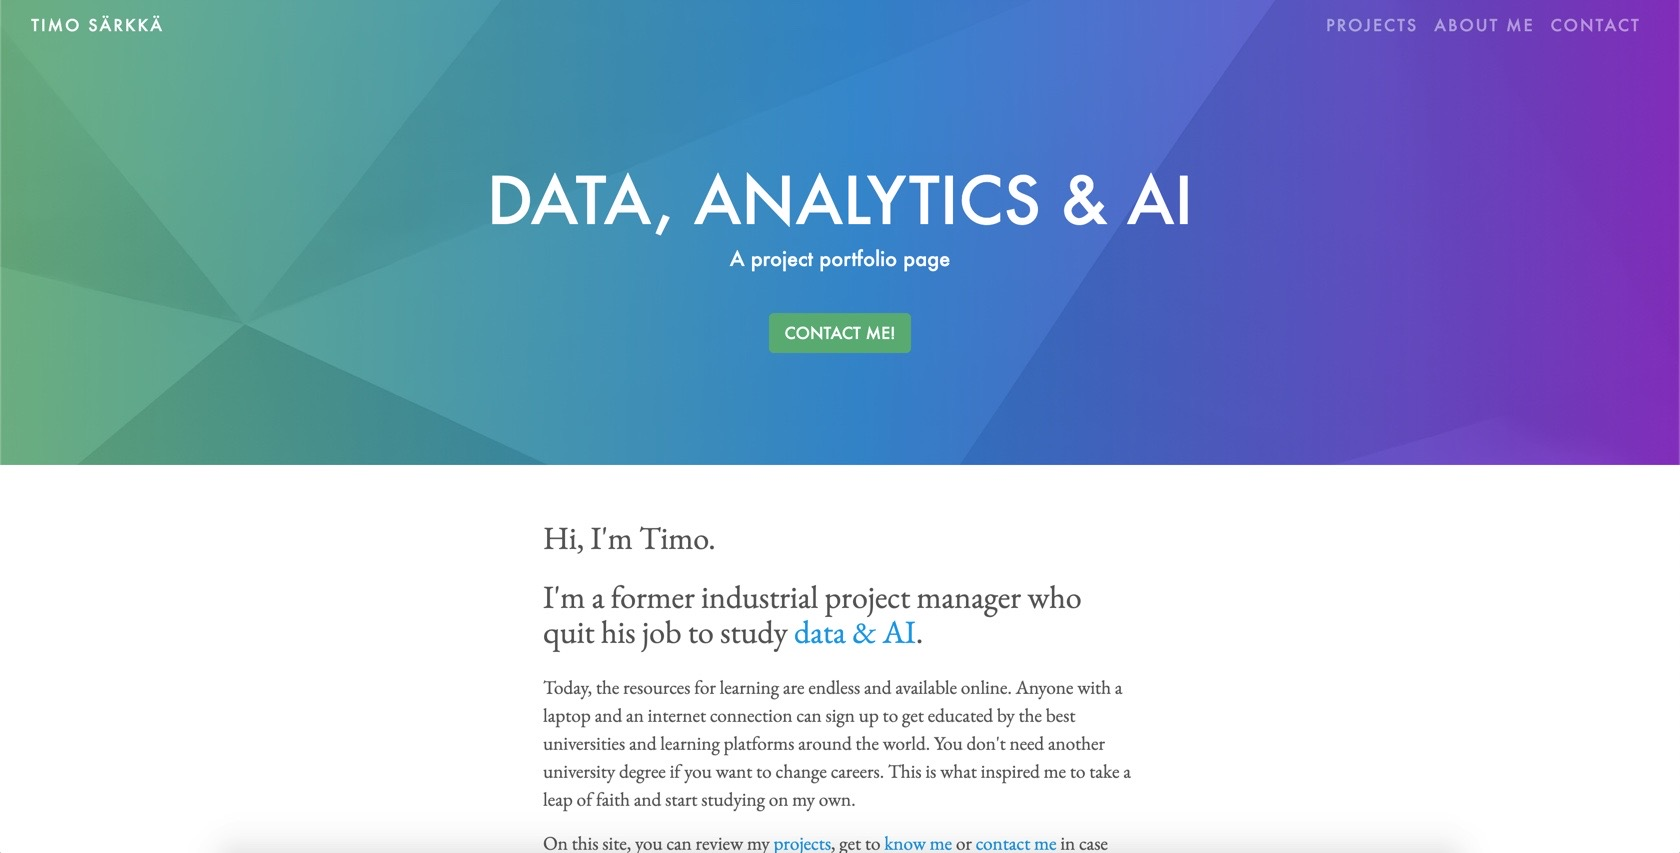
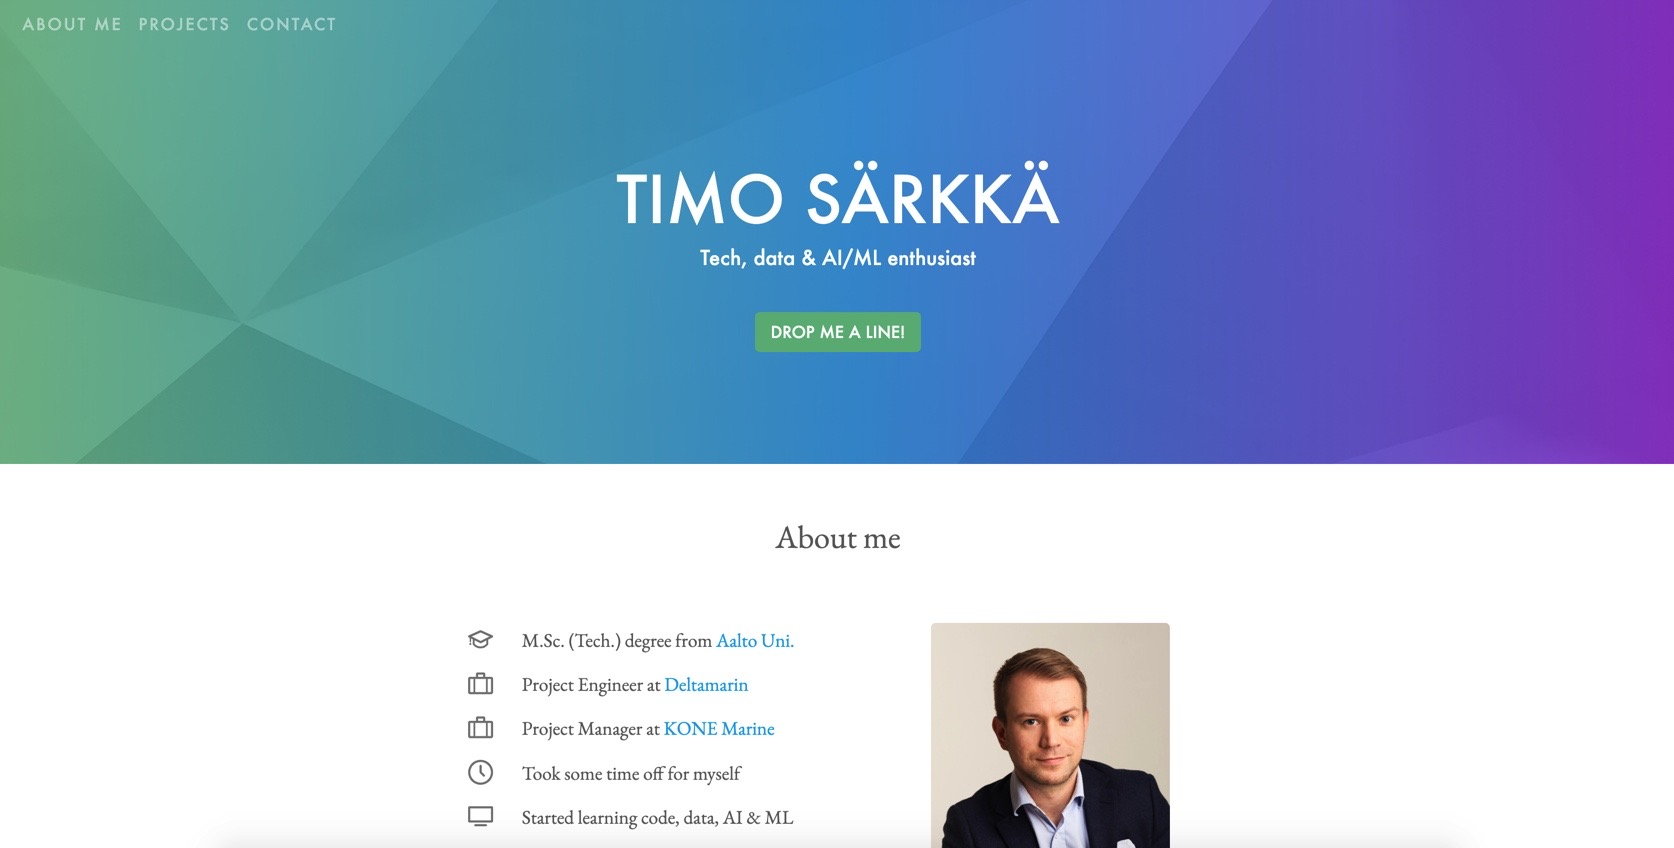
Simplified the page, added iconography

diff --git a/index.html b/index.html
@@ -1,7 +1,7 @@
 <!DOCTYPE html>
 <html lang="en">
   <head>
-    <title>Timo Särkkä - Data, Analytics & AI</title>
+    <title>Timo Särkkä - Tech, data & AI/ML</title>
     <!-- Required meta tags -->
     <meta charset="utf-8">
     <meta name="viewport" content="width=device-width, initial-scale=1, shrink-to-fit=no">
@@ -14,15 +14,14 @@
 
     <!-- navbar -->
     <nav class="navbar navbar-expand-lg navbar-dark">
-      <div class="container-fluid d-flex">
-        <a class="navbar-brand mr-0" href="index.html">Timo Särkkä</a>
+      <div class="container-fluid d-flex px-0">
         <button class="navbar-toggler" type="button" data-toggle="collapse" data-target="#navbarNavAltMarkup" aria-controls="navbarNavAltMarkup" aria-expanded="false" aria-label="Toggle navigation">
           <span class="navbar-toggler-icon"></span>
         </button>
-        <div class="collapse navbar-collapse justify-content-end" id="navbarNavAltMarkup">
+        <div class="collapse navbar-collapse justify-content-start" id="navbarNavAltMarkup">
           <div class="navbar-nav">
-            <a class="nav-item nav-link" href="#projects">Projects</a>
             <a class="nav-item nav-link" href="#about">About me</a>
+            <a class="nav-item nav-link" href="#projects">Projects</a>
             <a class="nav-item nav-link" href="#contact">Contact</a>
           </div>
         </div>
@@ -33,33 +32,47 @@
     <!-- jumbotron -->
     <div class="jumbotron jumbotron-fluid jumbo-bg-img bg-info text-white">
       <div class="container text-center py-5">
-        <h1 class="display-2 jumbo-heading">Data, analytics & AI</h1>
-        <p class="lead">A project portfolio page</p>
+        <h1 class="display-2 jumbo-heading">Timo Särkkä</h1>
+        <p class="lead">Tech, data & AI/ML enthusiast</p>
         <div class="btn-group mt-4" role="group" aria-label="Callout buttons">
-          <a href="#contact" class="btn btn-custom btn-lg" role="button">Contact me!</a>
+          <a href="#contact" class="btn btn-custom btn-lg" role="button">Drop me a line!</a>
         </div>
       </div>
     </div>
     <!-- /jumbotron -->
 
     <div class="container pt-4">
-      <!-- intro -->
-      <div id="intro" class="row">
-        <div class="col-lg order-lg-2 text-left intro-padding">
-          <h3 class="mb-4">Hi, I'm Timo.</h3>
-          <h3 class="mb-4">I'm a former industrial project manager who quit his job to study <a href="index.html#projects">data & AI</a>.</h3>
-          <p class="body-text">
-            Today, the resources for learning are endless and available online. Anyone with a laptop and an internet connection can sign up to get educated by the best universities and learning platforms around the world. You don't need another university degree if you want to change careers. This is what inspired me to take a leap of faith and start studying on my own.
-          </p>
-          <p class="body-text b-border pb-5">
-            On this site, you can review my <a href="index.html#projects">projects</a>, get to <a href="index.html#about">know me</a> or <a href="index.html#contact">contact me</a> in case you want to work together.
-          </p>
-        </div>
+      <!-- about -->
+      <h3 class="text-center mb-5">About me</h3>
+      <a class="anchor" id="about"></a>
+      <div class="row">
+       <div class="col-md">
+         <ul class="about custom-bullet mt-3">
+           <li class="body-text">M.Sc. (Tech.) degree from <a href="https://www.aalto.fi/en" target="_blank">Aalto Uni.</a></li>
+           <li class="body-text">Project Engineer at <a href="https://www.deltamarin.com/" target="_blank">Deltamarin</a></li>
+           <li class="body-text">Project Manager at <a href="https://www.kone-marine.com/" target="_blank">KONE Marine</a></li>
+           <li class="body-text">Took some time off for myself</li>
+           <li class="body-text">Started learning code, data, AI & ML</li>
+         </ul>
+       </div>
+       <div class="col-md">
+         <img src="img/timo-profile.jpg" class="profile-pic" alt="My profile picture">
+       </div>
       </div>
-      <!-- /intro -->
+      <div class="row mb-5">
+       <div class="col">
+        <p class="body-text">Hi, I'm Timo.</p>
+         <p class="body-text">I have managed industrial projects of different sizes for the better part of the last 7 years. My roots are in the maritime industry. I have worked in design offices, on factory floors and at shipyards.</p>
+          <p class="body-text">Lately, I've taken a turn to learn about IT and data. I'm especially interested in IT project management, data analytics and AI/ML. Hopefully I can learn and leverage these topics in my future roles.</p>
+          <p class="body-text">Some principles I try to live by: hard (but smart) work pays off; simplify until you can't; listen to your gut; delayed over instant gratification; and underpromise - overdeliver.</p>
+          <p class="body-text">When not on the job, I enjoy various kinds of sports (functional training, weightlifting, running), spend time with my dog or just listen to good music (electronic, 80s or both combined!).</p>
+       </div>
+      </div>
+      <hr>
+      <!-- /about -->
 
       <!-- projects -->
-      <h3 class="text-center my-4">My work.</h3>
+      <h3 class="text-center my-5">Projects</h3>
       <a class="anchor" id="projects"></a>
       <p class="body-text text-center mb-5">My project work so far. Click each project to open up its dedicated page on GitHub. Alternatively, for an overview of all of my recent projects you can visit my <a href="https://github.com/timo-sarkka" target="_blank">GitHub profile page</a>.</p>
 			<div class="row">
@@ -74,79 +87,26 @@
           </div>
 				</div>
         <div class="col-md-6 col-lg-6">
-          <div class="card mb-3">
+          <div class="card mb-5">
             <a href="https://github.com/timo-sarkka/Portfolio-Site" target="_blank"><img class="card-img-top" src="img/site.jpeg" alt="This website"></a>
             <div class="card-body">
               <a href="https://github.com/timo-sarkka/Portfolio-Site" target="_blank"><h4 class="card-title">Portfolio site</h4></a>
-              <p class="body-text">I prepared the site in front of you with a base from <a href="https://getbootstrap.com/" target="_blank">Bootstrap</a> and customized it with my own <a href="https://www.w3.org/Style/CSS/" target="_blank">CSS</a>. The idea was to create a simple and an elegant platform to be able to display my data projects. The site is mobile-optimized and should work well on most devices.</p>
+              <p class="body-text">I prepared the site in front of you with a base from <a href="https://getbootstrap.com/" target="_blank">Bootstrap</a> and customized it with my own <a href="https://www.w3.org/Style/CSS/" target="_blank">CSS</a>. The idea was to create a simple, modular and an elegant platform to be able to display my projects. The site is mobile-optimized and should work well on most devices.</p>
               <p class="body-text">See this project on <a href="https://github.com/timo-sarkka/Portfolio-Site" target="_blank">GitHub.</a></p>
             </div>
           </div>
         </div>
 			</div>
+      <hr>
       <!-- /projects -->
 
-      <!-- about -->
-      <h3 class="my-5 t-border"></h3>
-      <a class="anchor" id="about"></a>
-      <h3 class="text-center my-3">About me.</h3>
-      <div class="row mb-3">
-        <div class="col">
-          <p class="body-text">
-            <img src="img/timo-profile.jpg" class="profile-pic" alt="My profile picture">
-          </p>
-          <div class="row">
-           <div class="col-md">
-             <p class="body-text">
-               I first became interested in the world of data and AI back in 2016. I realized then, that there was already a multitude of learning resources on the web that anyone could use freely, at any time. I looked around and even started studying some topics, but I was working full time as a project manager at the time. My days were long, and there was a lot of travelling involved. I just couldn't find the time to also squeeze in studying. I decided to put my studies on hold and concentrate on my career in another industry.
-             </p>
-             <p class="body-text">
-               Fast forward to year 2019, when I ran across several new data and AI accomplishments, such as <a href="https://en.wikipedia.org/wiki/StyleGAN" target="_blank">StyleGAN</a>, <a href="https://www.theverge.com/2017/5/25/15689462/alphago-ke-jie-game-2-result-google-deepmind-china" target="_blank">AlphaGo's performance</a> and <a href="https://www.nature.com/articles/nature21056" target="_blank">recognizing skin cancer</a>. It was remarkable how far AI and machine learning had already come in just a few years.
-             </p>
-           </div>
-           <div class="col-md">
-             <p class="body-text">
-               I knew then that I had to get involved and start understanding these topics which probably will shape our future for the years to come. I started from the basics and signed up at self-paced learning platforms such as <a href="https://www.dataquest.io/" target="_blank">Dataquest</a> and <a href="https://www.teamtreehouse.com/" target="_blank">Team Treehouse</a>. After a few months of studying I had a good basic understanding of python, pandas, matplotlib, seaborn, SQL and statistics. I also complemented my studies with web technologies, such as HTML, CSS, JavaScript and PHP.
-             </p>
-             <p class="body-text">
-               So, here I am! Still in the start of my journey but learning more every day.
-             </p>
-             <p class="body-text">Check the list of my acquired technology skills below or see my <a href="index.html#projects">portfolio</a> to understand how I have utilized my new skillset recently.
-             </p>
-           </div>
-         </div>
-        </div>
-      </div>
-      <hr>
-
-      <!-- skills -->
-      <h3 class="text-center my-5">My tech stack.</h3>
-      <p class="body-text text-center">
-         Some of the technologies I've used lately.
-      </p>
-        <ul class="skills mt-5">
-          <li>python</li>
-          <li>pandas</li>
-          <li>matplotlib</li>
-          <li>seaborn</li>
-          <li>SQL</li>
-          <li>Git</li>
-          <li>HTML</li>
-          <li>CSS</li>
-          <li>JavaScript</li>
-          <li>Bootstrap</li>
-        </ul>
-      <!-- skills -->
-      <!-- /about -->
-
    	  <!-- contact -->
-			<hr class="mt-5">
 			<div class="row py-4 text-muted text-center">
 				<div class="col-md">
           <!-- Body content, contact -->
-            <h3 class="mb-4" id="contact">Drop me a line!</h3>
+            <h3 class="mb-4" id="contact">Contact</h3>
             <p class="body-text">
-              I'm available by the following means, please take your pick and say hello.
+              I'm active on the following platforms, please take your pick and say hello!
             </p>
             <ul class="social mt-3">
               <li><a href="https://www.facebook.com/timo.sarkka" target="_blank" class="social facebook">Facebook</a></li>

diff --git a/css/custom.css b/css/custom.css
@@ -88,13 +88,6 @@ h4 {
   font-size: 1.2rem;
 }
 
-/* Footer */
-
-.footer {
-  background: rgb(104,182,132);
-  background: linear-gradient(90deg, rgba(104,182,132,0.788953081232493) 0%, rgba(34,134,211,0.7721463585434174) 51%, rgba(145,34,211,0.738532913165266) 100%);
-}
-
 /* Links */
 
 a {
@@ -104,6 +97,93 @@ a {
 a:hover {
   color: #90DBF2;
   text-decoration: none;
+}
+
+/* About-section icons */
+
+ul.custom-bullet {
+  display: inline-block;
+  padding: 0.5em;
+  padding-left: 2em;
+  margin: 0.5em;
+  list-style: none;
+  counter-reset: liNum;
+}
+
+ul.custom-bullet > li {
+  clear: left;
+  counter-increment: liNum 1;
+}
+
+ul.custom-bullet > li:before {
+  content:"";
+  height: 25px;
+  width: 25px;
+  display: block;
+  float: left;
+  margin-right: 1.5em;
+  margin-bottom: 1em;
+  background-position: center;
+  background-repeat: no-repeat;
+  background-size: 25px 25px;
+  opacity: .5;
+}
+
+ul.custom-bullet > li:before{
+  content:counter(liNum);
+  text-align:center;
+}
+
+ul.about> li:nth-of-type(1):before{
+  content:"";
+  background-image:url("../img/graduation.svg");
+}
+
+ul.about> li:nth-of-type(2):before{
+  content:"";
+  background-image:url("../img/suitcase.svg");
+}
+
+ul.about> li:nth-of-type(3):before{
+  content:"";
+  background-image:url("../img/suitcase.svg");
+}
+
+ul.about> li:nth-of-type(4):before{
+  content:"";
+  background-image:url("../img/clock.svg");
+}
+
+ul.about> li:nth-of-type(5):before{
+  content:"";
+  background-image:url("../img/monitor.svg");
+}
+
+/* Images */
+
+.profile-pic {
+  display: block;
+  height: 252px;
+  width: 239px;
+  border-radius: 2%;
+  margin: 20px auto 50px auto;
+
+}
+
+/* Nav anchor offset */
+
+.anchor {
+    display: block;
+    position: relative;
+    top: -100px;
+    visibility: hidden;
+}
+
+/* Footer */
+
+.footer {
+  background: rgb(104,182,132);
+  background: linear-gradient(90deg, rgba(104,182,132,0.788953081232493) 0%, rgba(34,134,211,0.7721463585434174) 51%, rgba(145,34,211,0.738532913165266) 100%);
 }
 
 /* Social media icon links */
@@ -149,59 +229,6 @@ a.instagram {
   background-image: url('../img/instagram.svg');
 }
 
-/* Section borders */
-
-.b-border {
-  border-bottom: 1px solid #dfe2e6;
-}
-
-.t-border {
-  border-top: 1px solid #dfe2e6;
-}
-
-/* Images */
-
-.profile-pic {
-  display: block;
-  height: 224px;
-  width: 212px;
-  border-radius: 5%;
-  border: 2px solid #41b4ec;
-  margin: 20px auto 50px auto;
-}
-
-/* Skill blocks */
-
-.skills li {
-  font-family: 'Futura', Helvetica, Arial, sans-serif;
-  font-size: 1.2rem;
-  display: inline-flex;
-  border-radius: 6px;
-  background-color: #41b4ec;
-  color: white;
-  padding: 10px 20px;
-  margin: 2px;
-  text-transform: uppercase;
-  text-align: center;
-}
-
-.skills li:nth-child(2n+0) {
-  background: #77ce94;
-}
-
-.skills li:nth-child(3n+0) {
-  background: #C878E9
-}
-
-/* Anchor offset */
-
-.anchor {
-    display: block;
-    position: relative;
-    top: -100px;
-    visibility: hidden;
-}
-
 /* Media queries */
 
 @media (min-width: 1024px) {
@@ -221,10 +248,5 @@ a.instagram {
 
   .body-text {
     font-size: 1.2rem;
-  }
-
-  .intro-padding {
-      padding-left: 8rem;
-      padding-right: 8rem;
   }
 }
